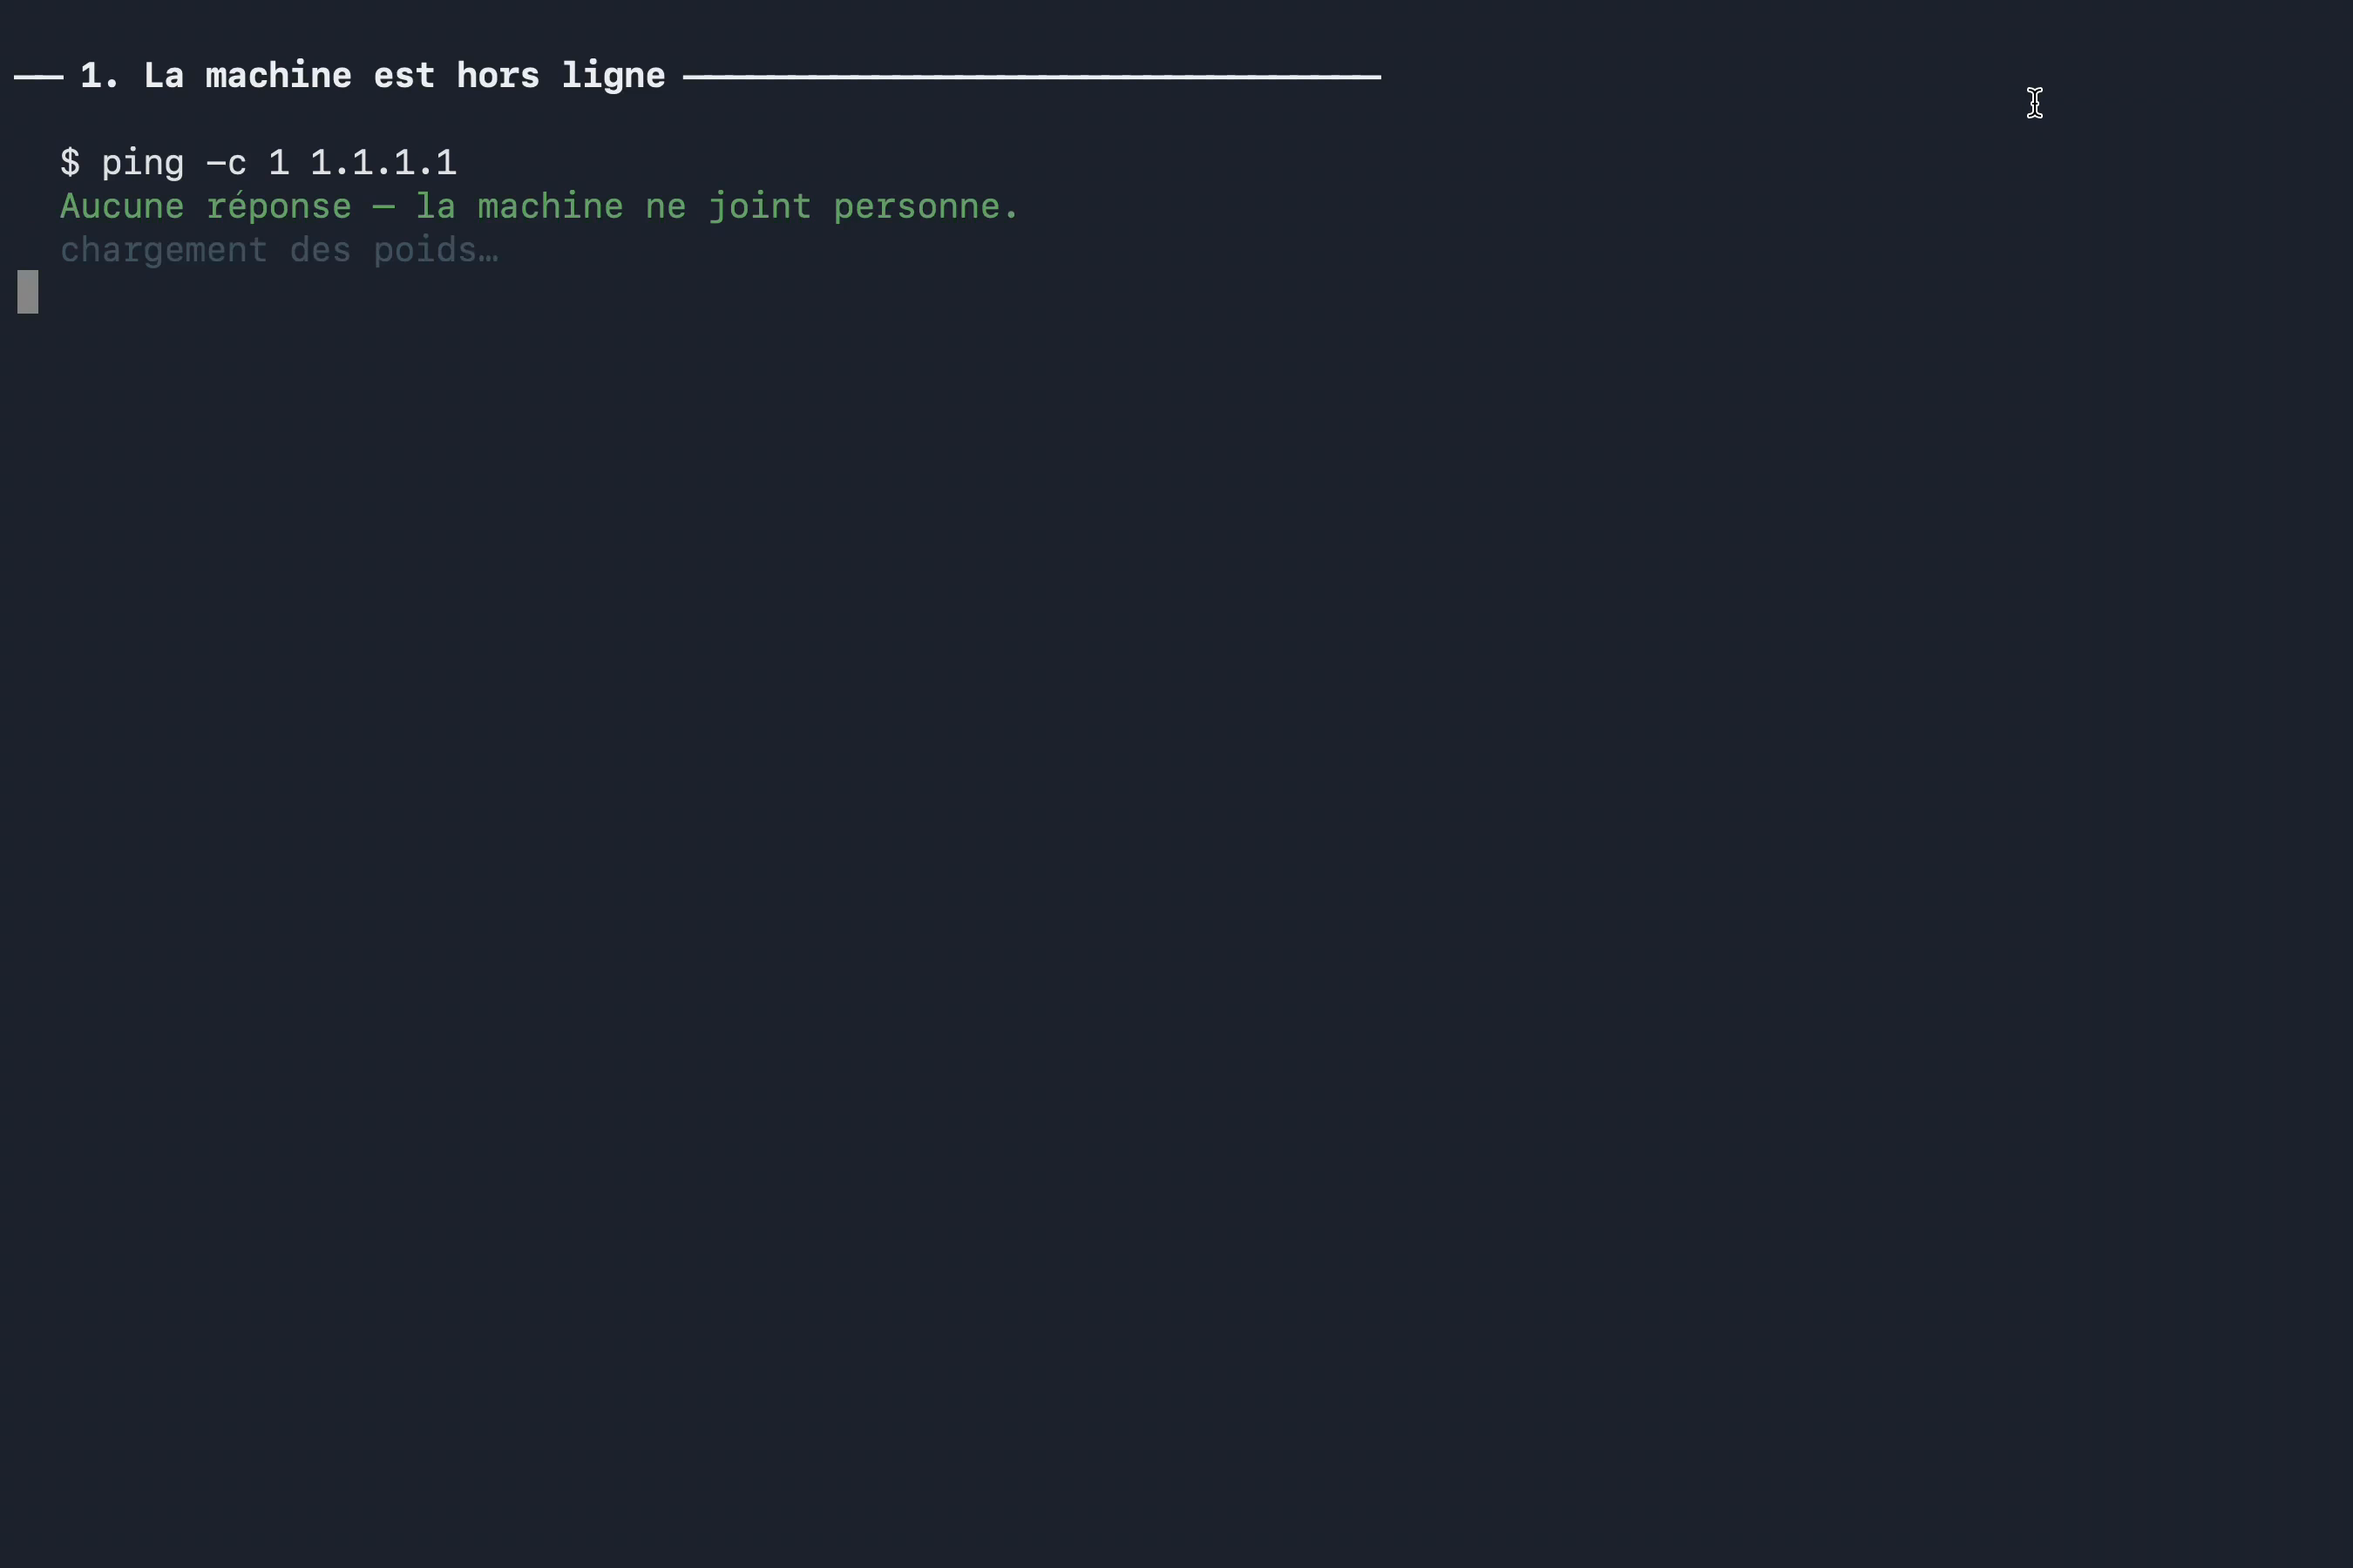
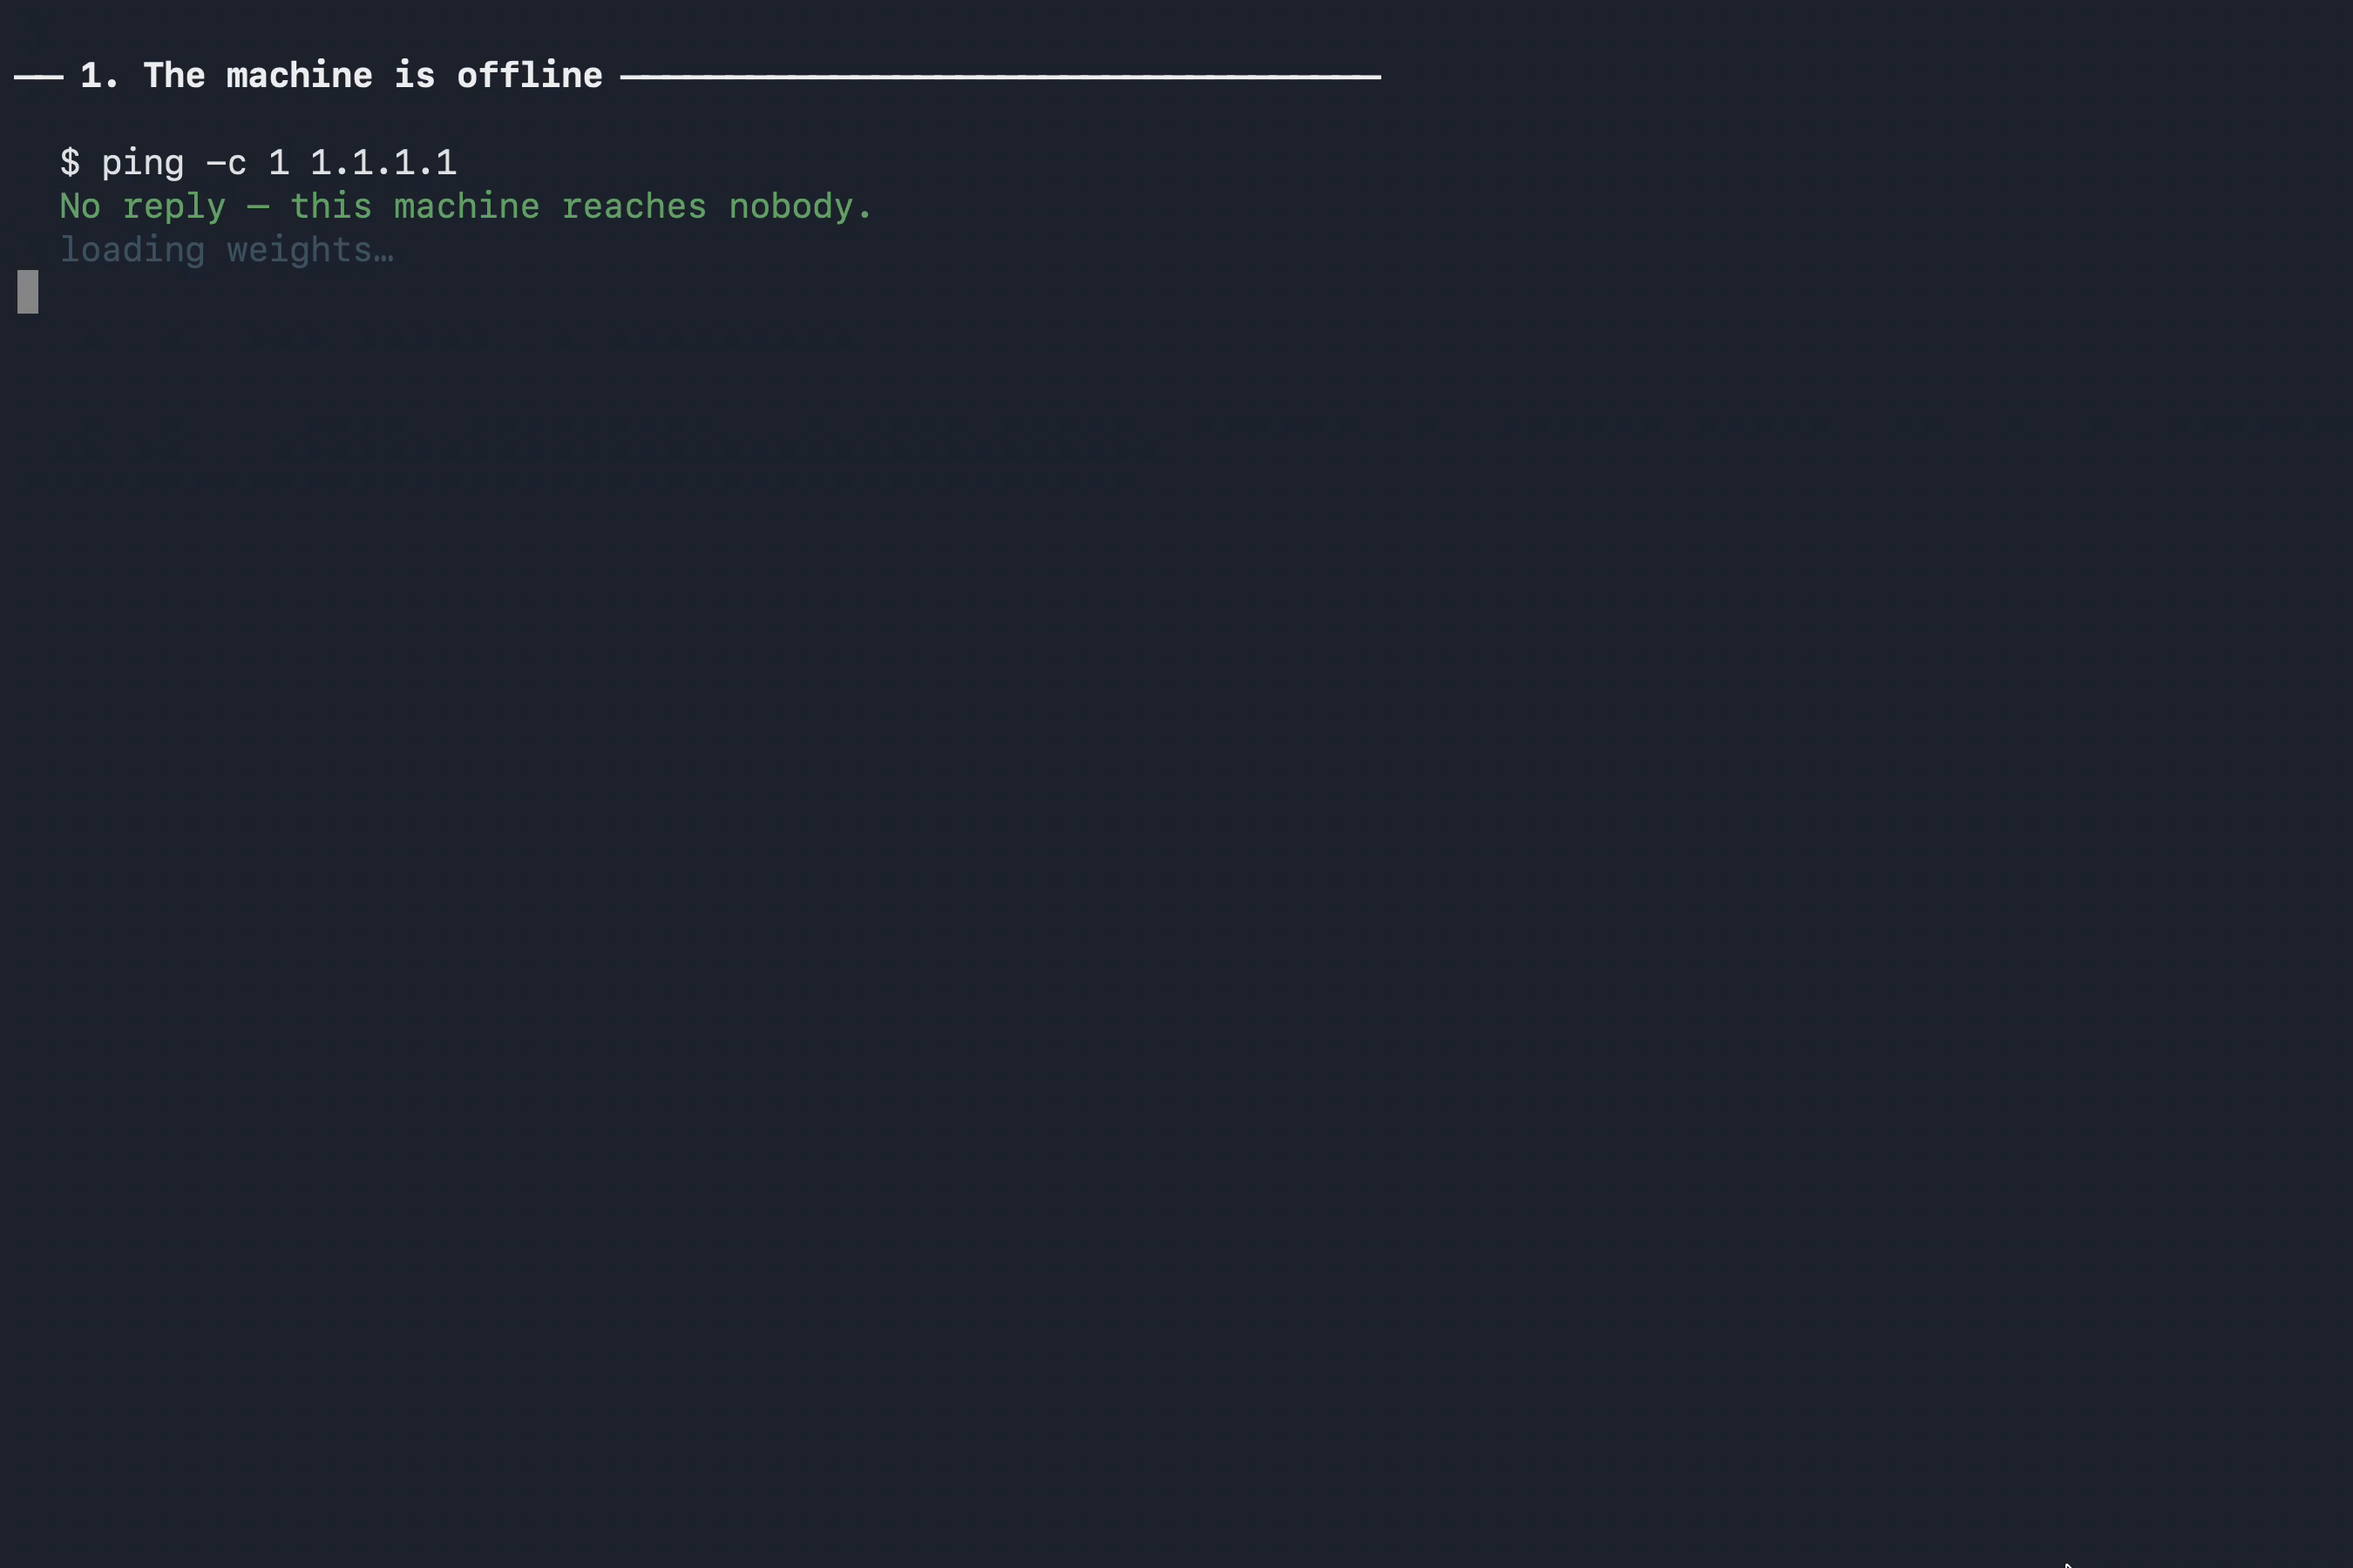
demo: habillage en anglais, produit en francais
Les titres et commentaires sont la voix du presentateur : ils passent en anglais,
comme le reste de ce que lira le jury. La session USSD reste en francais parce
que c est le produit — une PME d Abidjan interroge en francais et le modele lui
repond en francais depuis ses propres documents.

Changed region(s): [[0.0311, 0.1244, 0.4356, 0.1867], [0.0622, 0.0311, 0.28, 0.0622]]

diff --git a/demo/tournage.py b/demo/tournage.py
@@ -23,6 +23,13 @@ Ce qui est prouvé, acte par acte :
   4. **La localité**  les documents lus sont sur le disque, et les chiffres du
                       profileur officiel sortent de `bench/raw/`.
 
+Deux langues à l'écran, et ce n'est pas une négligence. **L'habillage est en
+anglais** — titres, commentaires, libellés : c'est la voix du présentateur, et
+le jury lit l'anglais comme le reste du dépôt. **Le produit reste dans sa
+langue** : la session USSD de l'acte 3 se joue en français, parce qu'une PME
+d'Abidjan interroge en français et que le modèle lui répond en français depuis
+ses propres documents. Tout traduire effacerait justement ce qu'on démontre.
+
 Usage : .venv/bin/python demo/tournage.py [--repetition]
 
 `--repetition` saute le contrôle réseau, pour préparer la prise sans couper le
@@ -62,9 +69,9 @@ def titre(n: int, texte: str) -> None:
 
 
 def acte_hors_ligne(verifier: bool) -> None:
-    titre(1, "La machine est hors ligne")
+    titre(1, "The machine is offline")
     if not verifier:
-        print(f"  {GRIS}(contrôle réseau sauté : mode répétition){FIN}")
+        print(f"  {GRIS}(network check skipped: rehearsal mode){FIN}")
         time.sleep(POSE)
         return
     joignable = subprocess.run(
@@ -75,12 +82,12 @@ def acte_hors_ligne(verifier: bool) -> None:
         print("  ⚠  Le réseau répond encore. Coupez le Wi-Fi avant de filmer.")
         sys.exit(1)
     print(f"  $ ping -c 1 1.1.1.1")
-    print(f"  {VERT}Aucune réponse — la machine ne joint personne.{FIN}")
+    print(f"  {VERT}No reply — this machine reaches nobody.{FIN}")
     time.sleep(POSE)
 
 
 def acte_modele(a: Assistant) -> None:
-    titre(2, "Le modèle répond, sur cette machine")
+    titre(2, "The model answers, on this machine")
     # `tp_002` et pas `tp_001`, pour deux raisons dites franchement. La première
     # est de fond : « summarization, drafting, and analysis » est la définition
     # officielle du domaine, et `tp_002` est exactement cela, quand `tp_001` est
@@ -105,29 +112,29 @@ def acte_modele(a: Assistant) -> None:
         sys.stdout.flush()
         jetons += 1
     duree = time.monotonic() - debut
-    print(f"\n\n  {VERT}{jetons} jetons en {duree:.0f} s, processeur seul, sans réseau.{FIN}")
+    print(f"\n\n  {VERT}{jetons} tokens in {duree:.0f} s, CPU only, no network.{FIN}")
     time.sleep(POSE)
 
 
 def acte_ussd(a: Assistant) -> None:
-    titre(3, f"Le même modèle, joignable par USSD au {CODE_SERVICE}")
+    titre(3, f"The same model, reachable by USSD on {CODE_SERVICE}")
     saisies = ["", "3", "De combien de jours la commande CMD-1042 est-elle en retard ?"]
     texte = ""
     for i, saisie in enumerate(saisies):
         texte = saisie if not texte else f"{texte}*{saisie}"
         sortie = repondre("tournage", CODE_SERVICE, "+2250700000000", texte.lstrip("*"), a)
         _dessiner(sortie[4:])
-        print(f"    {GRIS}{len(sortie)}/{ECRAN_MAX} caractères{FIN}")
+        print(f"    {GRIS}{len(sortie)}/{ECRAN_MAX} characters{FIN}")
         time.sleep(POSE if i < len(saisies) - 1 else 0.3)
-    print(f"\n  {VERT}Aucun forfait data, aucune application, n'importe quel téléphone.{FIN}")
+    print(f"\n  {VERT}No data plan, no app, any phone.{FIN}")
     time.sleep(POSE)
 
 
 def acte_localite() -> None:
-    titre(4, "Rien n'est sorti de la machine")
+    titre(4, "Nothing left the machine")
     cmd = charger_commandes()
-    print(f"  Les documents lus sont ici : {GRAS}demo/commandes.json{FIN} "
-          f"({len(cmd)} commandes, sur ce disque)\n")
+    print(f"  The documents it read are here: {GRAS}demo/commandes.json{FIN} "
+          f"({len(cmd)} orders, on this disk)\n")
     bruts = sorted((RACINE / "bench" / "raw").glob("final-iq4xs-*.json"))
     debits, pics = [], []
     for f in bruts:
@@ -135,22 +142,22 @@ def acte_localite() -> None:
         debits.append(d["throughput"]["tokens_per_second_generation"])
         pics.append(d["memory"]["peak_rss_mb"])
     med = lambda v: sorted(v)[len(v) // 2]
-    print(f"  Profileur officiel, médiane de {len(bruts)} passages sur ce fichier :")
-    print(f"    débit      {GRAS}{med(debits):.2f} jetons/s{FIN}")
-    print(f"    pic mémoire {GRAS}{med(pics):.0f} Mo{FIN}  (plafond du concours : 7 000 Mo)")
-    print(f"\n  {VERT}Un modèle qui tient dans un portable à 8 Go, et qui n'appelle personne.{FIN}\n")
+    print(f"  Official profiler, median of {len(bruts)} runs on this file:")
+    print(f"    throughput  {GRAS}{med(debits):.2f} tokens/s{FIN}")
+    print(f"    peak memory {GRAS}{med(pics):.0f} MB{FIN}  (contest ceiling: 7,000 MB)")
+    print(f"\n  {VERT}A model that fits an 8 GB laptop, and calls nobody.{FIN}\n")
 
 
 def main() -> int:
     repetition = "--repetition" in sys.argv
     depart = time.monotonic()
     acte_hors_ligne(verifier=not repetition)
-    print(f"  {GRIS}chargement des poids…{FIN}")
+    print(f"  {GRIS}loading weights…{FIN}")
     a = Assistant()
     acte_modele(a)
     acte_ussd(a)
     acte_localite()
-    print(f"{GRIS}  [prise complète : {time.monotonic() - depart:.0f} s]{FIN}")
+    print(f"{GRIS}  [full take: {time.monotonic() - depart:.0f} s]{FIN}")
     return 0
 
 
